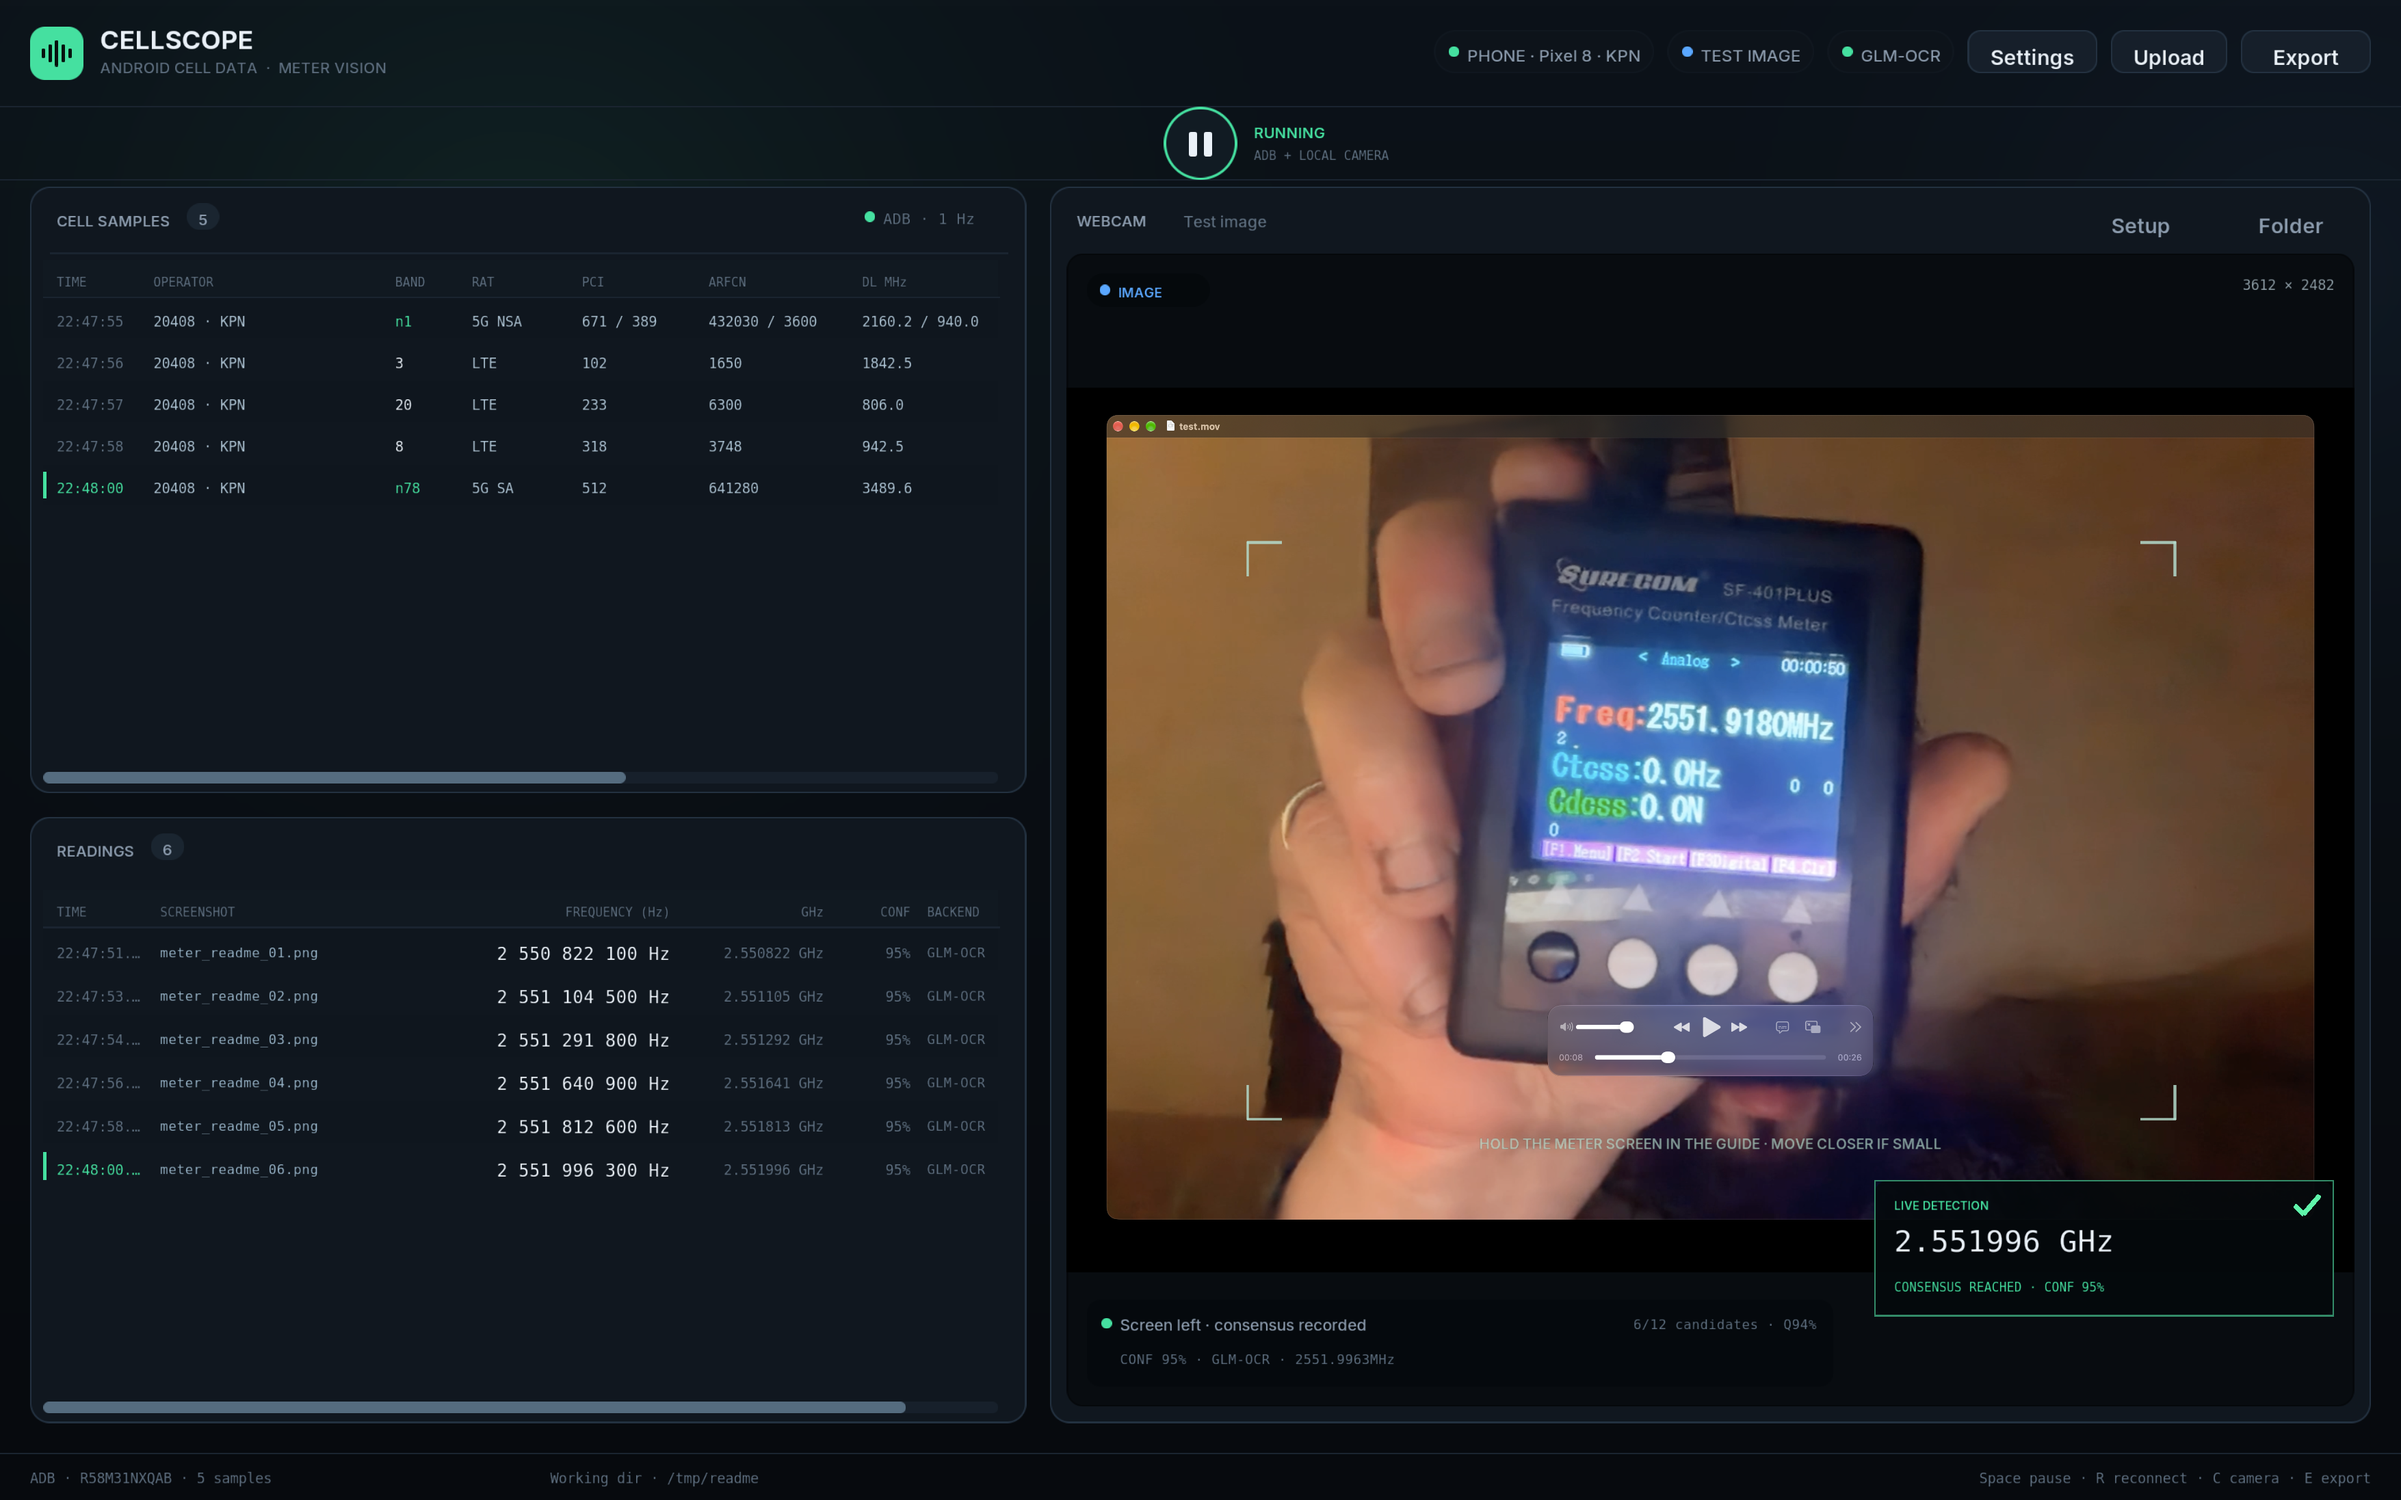
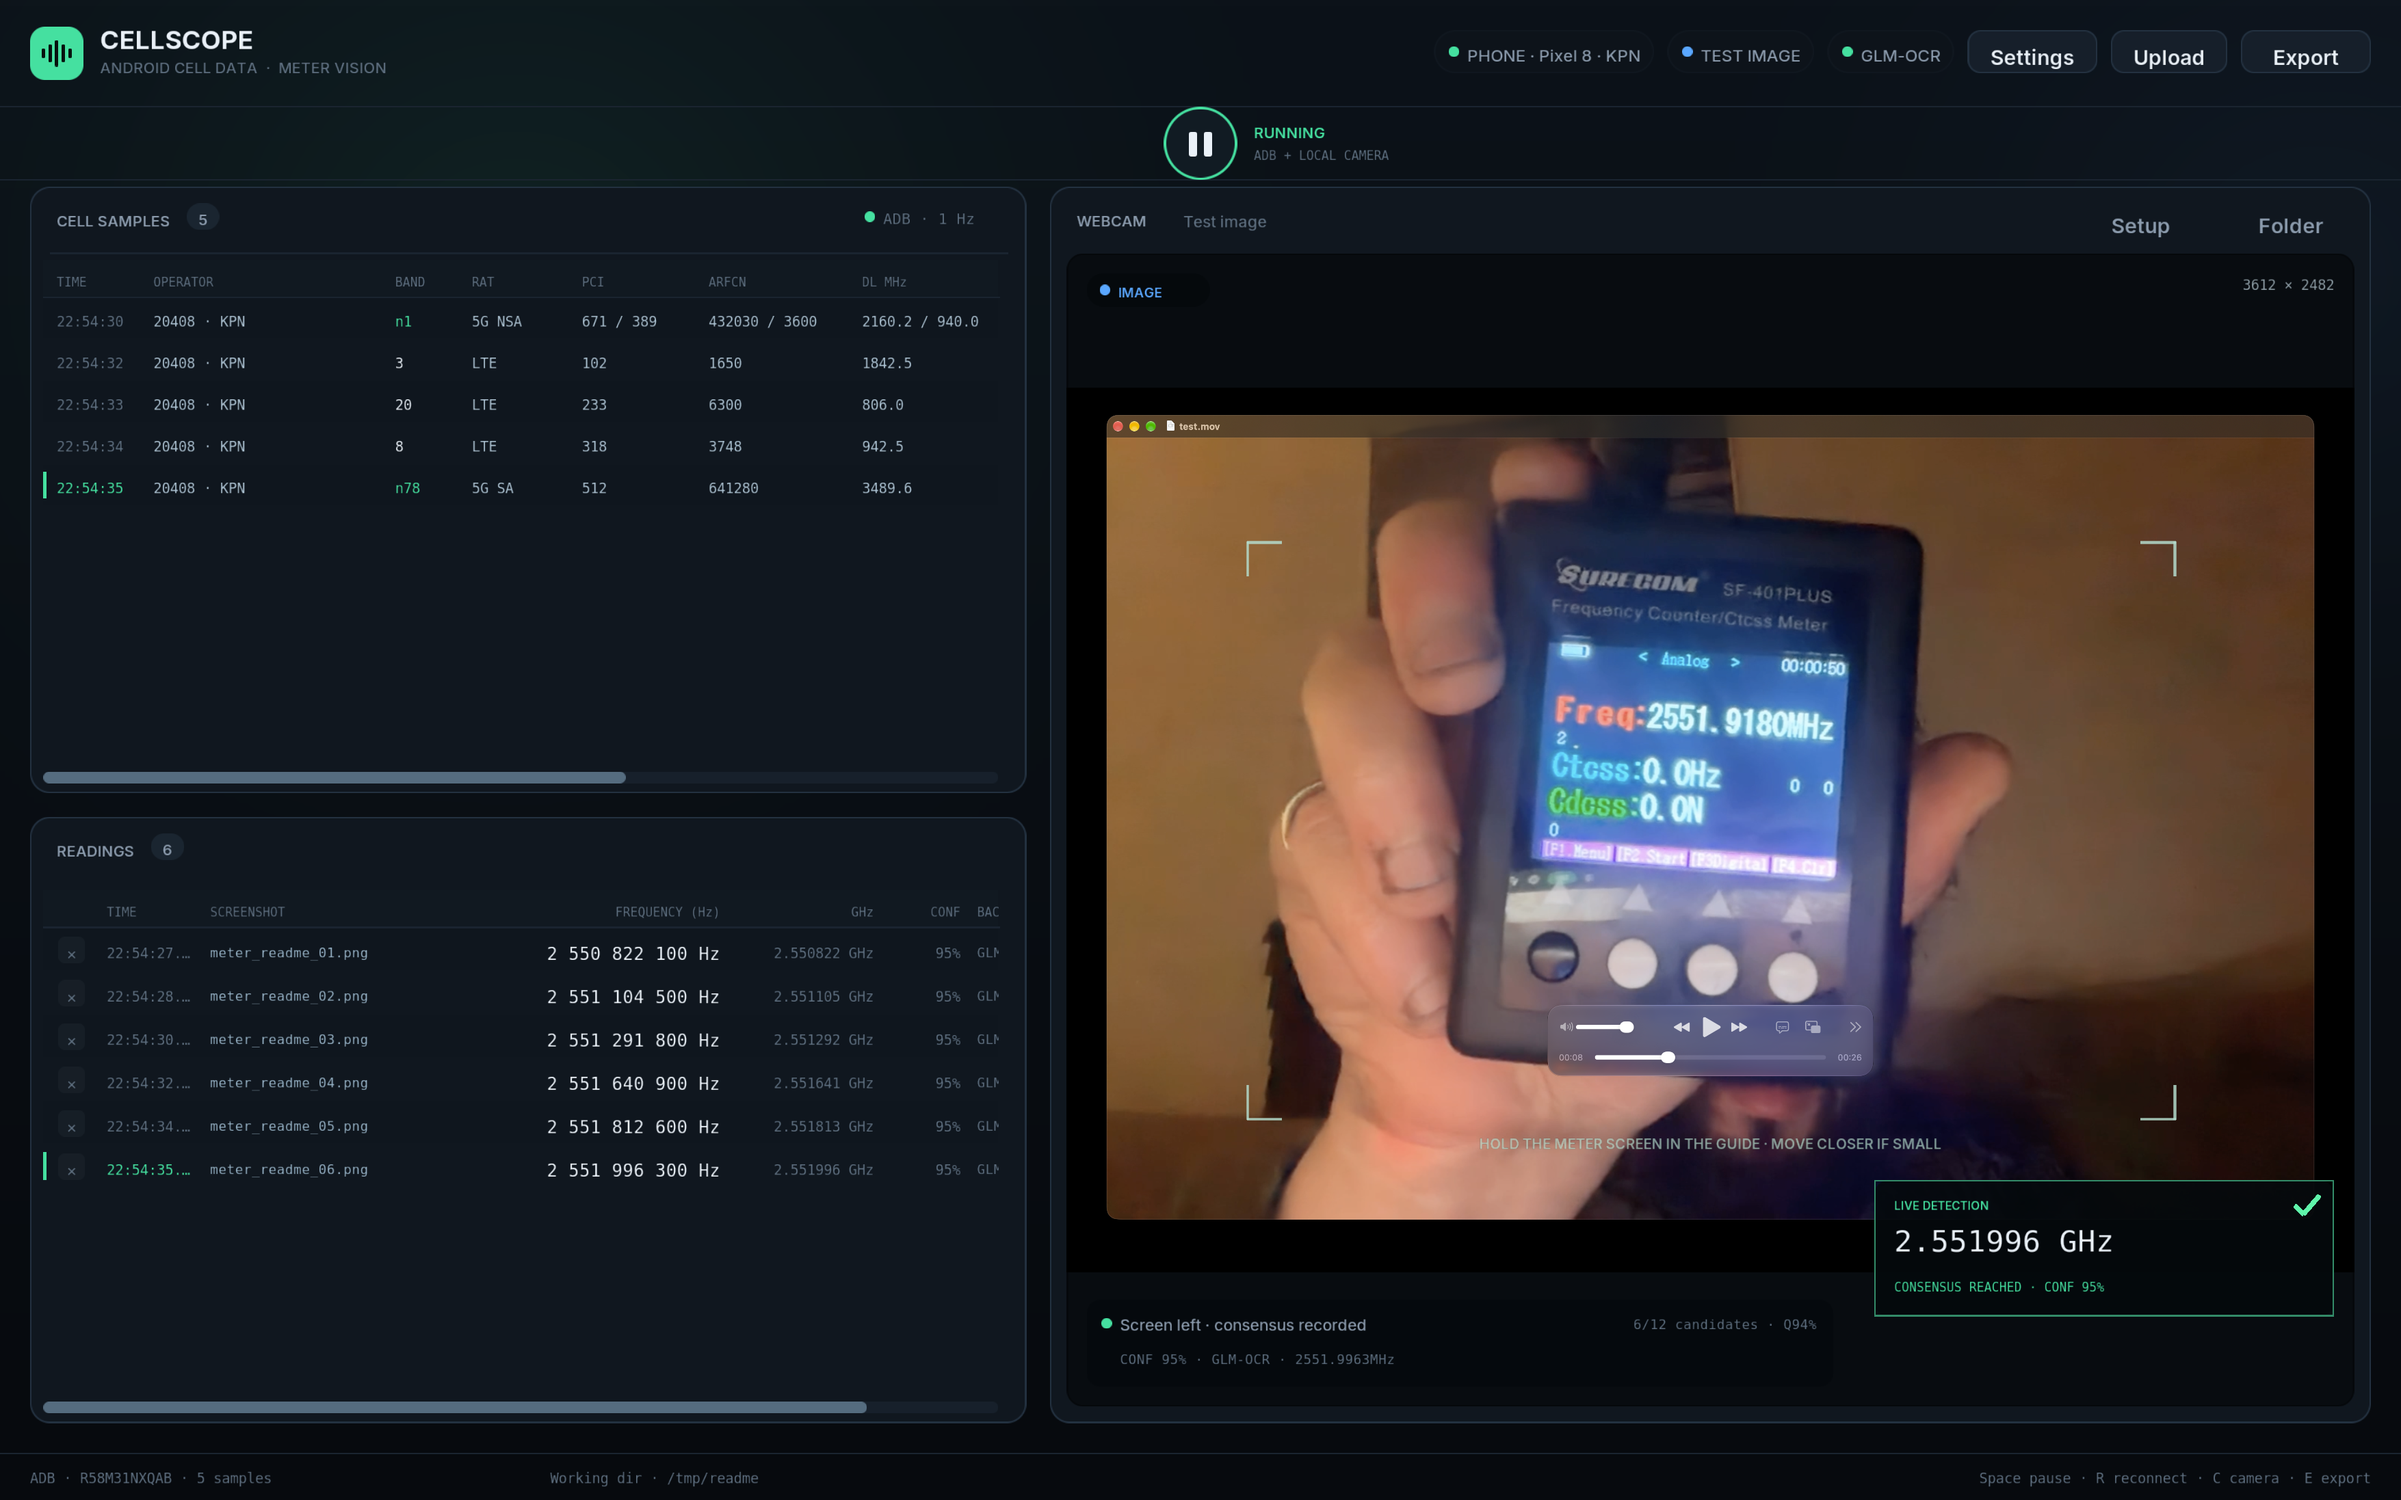
Add confirmed removal of incorrect readings
- add a compact remove action as the first READINGS column
- open a modal with the reading value, time, confidence and a warning
- cancel with the button or Escape; confirm with the danger Remove button
- remove the logical row from the circular meter buffer and update the session
  JSON; leave the screenshot file on disk
- close the modal and adjust selection/scroll state after removal
- rerender README screenshots with the remove column

Changed region(s): [[0.2174, 0.5889, 0.2795, 0.8058]]

diff --git a/src/app_ui.c b/src/app_ui.c
@@ -16,6 +16,8 @@ typedef struct {
     int meter_count;
     bool modal_open;
     bool modal_checking;
+    bool remove_meter_open;
+    int remove_meter_index;
     bool paused;
     bool ever_connected;
     char device_label[128];
@@ -53,6 +55,8 @@ static void snapshot(App *app, UiState *s)
     s->meter_count = app->meter_count;
     s->modal_open = app->modal_open;
     s->modal_checking = app->modal_checking;
+    s->remove_meter_open = app->remove_meter_open;
+    s->remove_meter_index = app->remove_meter_index;
     s->paused = app->paused;
     s->ever_connected = app->ever_connected;
     cs_strlcpy(s->device_label, app->device_label, sizeof(s->device_label));
@@ -886,7 +890,7 @@ static void draw_meter_rows(App *app, UiState *s, UiRect body)
 {
     Ui *ui = &app->ui;
     static const ListColumn cols[] = {
-        {"TIME", 62}, {"SCREENSHOT", 190}, {"FREQUENCY (Hz)", 126},
+        {"", 30}, {"TIME", 62}, {"SCREENSHOT", 190}, {"FREQUENCY (Hz)", 126},
         {"GHz", 92}, {"CONF", 52}, {"BACKEND", 112},
     };
     const int ncols = (int)CS_ARRAY_LEN(cols);
@@ -930,7 +934,7 @@ static void draw_meter_rows(App *app, UiState *s, UiRect body)
     ui_rect_fill(ui, head, UI_COLOR(17, 25, 33, 245));
     float hx = head.x + 8 - app->meter_scroll_x;
     for (int c = 0; c < ncols; c++) {
-        bool right = (c == 2 || c == 3 || c == 4);
+        bool right = (c == 3 || c == 4 || c == 5);
         if (right)
             ui_text_right(ui, FONT_MONO, hx + cols[c].width - 10, head.y + 7, 7.6f,
                           UI_FAINT, cols[c].label);
@@ -968,24 +972,37 @@ static void draw_meter_rows(App *app, UiState *s, UiRect body)
         snprintf(conf, sizeof(conf), "%d%%", (int)(m.confidence * 100.0));
         const char *shot = ui_shot_name(&m);
         float x = view.x + 8 - app->meter_scroll_x;
-        ui_text_ellipsis(ui, FONT_MONO, x, row.y + 8, 8.6f,
-                         newest ? UI_ACCENT : UI_FAINT, cols[0].width - 10, m.time_text);
+        UiRect del = ui_rect(x + 1, row.y + 5, 16, 16);
+        bool del_hover = ui_rect_contains(del, ui->mx, ui->my);
+        ui_round_rect(ui, del, 4, del_hover ? UI_COLOR(93, 40, 44, 255)
+                                            : UI_COLOR(24, 32, 40, 210));
+        ui_text_center(ui, FONT_MONO, del.x + del.w / 2, del.y + 2.5f, 10.0f,
+                       del_hover ? UI_COLOR(255, 170, 170, 255) : UI_FAINT, "×");
+        if (del_hover && ui->mouse_pressed) {
+            app_request_remove_meter(app, i);
+            ui_consume_click(ui);
+            x += cols[0].width;
+            continue;
+        }
         x += cols[0].width;
+        ui_text_ellipsis(ui, FONT_MONO, x, row.y + 8, 8.6f,
+                         newest ? UI_ACCENT : UI_FAINT, cols[1].width - 10, m.time_text);
+        x += cols[1].width;
         ui_text_ellipsis(ui, FONT_MONO, x, row.y + 8, 8.2f,
                          shot[0] ? UI_COLOR(150, 178, 198, 255) : UI_FAINT,
-                         cols[1].width - 10, shot[0] ? shot : "—");
-        x += cols[1].width;
-        ui_text_right(ui, FONT_MONO, x + cols[2].width - 10, row.y + 7, 10.4f,
-                      UI_TEXT, hz);
+                         cols[2].width - 10, shot[0] ? shot : "—");
         x += cols[2].width;
-        ui_text_right(ui, FONT_MONO, x + cols[3].width - 10, row.y + 8, 8.4f,
-                      UI_FAINT, eng);
+        ui_text_right(ui, FONT_MONO, x + cols[3].width - 10, row.y + 7, 10.4f,
+                      UI_TEXT, hz);
         x += cols[3].width;
         ui_text_right(ui, FONT_MONO, x + cols[4].width - 10, row.y + 8, 8.4f,
-                      UI_FAINT, conf);
+                      UI_FAINT, eng);
         x += cols[4].width;
+        ui_text_right(ui, FONT_MONO, x + cols[5].width - 10, row.y + 8, 8.4f,
+                      UI_FAINT, conf);
+        x += cols[5].width;
         ui_text_ellipsis(ui, FONT_MONO, x, row.y + 8, 8.2f, UI_FAINT,
-                         cols[5].width - 10, m.backend[0] ? m.backend : "reader");
+                         cols[6].width - 10, m.backend[0] ? m.backend : "reader");
 
         if (ui_rect_contains(row, ui->mx, ui->my) && ui->mouse_pressed) {
             app->selected_meter_ts = m.ts_ms;
@@ -1196,6 +1213,50 @@ static void draw_modal(App *app, UiState *s)
     }
 }
 
+static void draw_remove_modal(App *app, UiState *s)
+{
+    Ui *ui = &app->ui;
+    float W = (float)ui->win_w, H = (float)ui->win_h;
+    ui_rect_fill(ui, ui_rect(0, 0, W, H), UI_COLOR(3, 5, 8, 200));
+    float cw = CS_MIN(460.0f, W - 60);
+    float ch = 214;
+    UiRect card = ui_rect((W - cw) / 2, (H - ch) / 2, cw, ch);
+    ui_round_rect(ui, ui_rect(card.x - 2, card.y - 2, card.w + 4, card.h + 4), 14,
+                  UI_COLOR(72, 34, 38, 150));
+    ui_panel(ui, card, UI_PANEL);
+    ui_round_rect(ui, ui_rect(card.x + 1, card.y + 1, card.w - 2, 3), 2, UI_RED);
+
+    MeterSample m;
+    memset(&m, 0, sizeof(m));
+    if (s->remove_meter_index >= 0) m = app_meter_at(app, s->remove_meter_index);
+    char eng[64], hz[64];
+    cs_format_eng(m.hz, eng, sizeof(eng));
+    cs_format_hz(m.hz, hz, sizeof(hz));
+
+    ui_text_font(ui, FONT_SEMIBOLD, card.x + 24, card.y + 22, 18.0f, UI_TEXT,
+                 "Remove this reading?");
+    ui_text_font(ui, FONT_UI, card.x + 24, card.y + 52, 10.2f, UI_MUTED,
+                 "This cannot be undone. The screenshot file stays on disk.");
+    UiRect val = ui_rect(card.x + 24, card.y + 78, card.w - 48, 48);
+    ui_round_rect(ui, val, 8, UI_COLOR(11, 17, 23, 255));
+    ui_rect_outline(ui, val, UI_BORDER_SOFT, 1);
+    ui_text_ellipsis(ui, FONT_MONO, val.x + 12, val.y + 7, 17.0f, UI_TEXT, val.w - 24,
+                     eng);
+    char sub[256];
+    snprintf(sub, sizeof(sub), "%s Hz · %s · %d%%", hz,
+             m.time_text[0] ? m.time_text : "—", (int)(m.confidence * 100.0));
+    ui_text_ellipsis(ui, FONT_MONO, val.x + 12, val.y + 28, 7.8f, UI_FAINT,
+                     val.w - 24, sub);
+
+    float by = card.y + card.h - 54;
+    UiRect cancel = ui_rect(card.x + card.w - 250, by, 110, 34);
+    UiRect remove = ui_rect(card.x + card.w - 126, by, 102, 34);
+    if (ui_button(ui, cancel, "Cancel", BUTTON_SECONDARY, true))
+        app_cancel_remove_meter(app);
+    if (ui_button(ui, remove, "Remove", BUTTON_DANGER, true))
+        app_confirm_remove_meter(app);
+}
+
 void app_draw(App *app)
 {
     Ui *ui = &app->ui;
@@ -1205,7 +1266,7 @@ void app_draw(App *app)
     layout(app, &l);
 
     ui_background(ui);
-    ui->block_interactive = s.modal_open;
+    ui->block_interactive = s.modal_open || s.remove_meter_open;
     draw_header(app, &s);
     draw_transport(app, &s);
     draw_runtime_banner(app, &s);
@@ -1215,5 +1276,6 @@ void app_draw(App *app)
     draw_footer(app, &s);
     ui->block_interactive = false;
     if (s.modal_open) draw_modal(app, &s);
+    if (s.remove_meter_open) draw_remove_modal(app, &s);
     draw_toast(app);
 }

diff --git a/src/app.c b/src/app.c
@@ -313,6 +313,55 @@ void app_add_meter(App *app, const MeterSample *sample)
     SDL_UnlockMutex(app->mu);
 }
 
+void app_request_remove_meter(App *app, int index)
+{
+    SDL_LockMutex(app->mu);
+    if (index >= 0 && index < app->meter_count) {
+        app->remove_meter_open = true;
+        app->remove_meter_index = index;
+    }
+    SDL_UnlockMutex(app->mu);
+}
+
+void app_cancel_remove_meter(App *app)
+{
+    SDL_LockMutex(app->mu);
+    app->remove_meter_open = false;
+    app->remove_meter_index = -1;
+    SDL_UnlockMutex(app->mu);
+}
+
+void app_confirm_remove_meter(App *app)
+{
+    SDL_LockMutex(app->mu);
+    int index = app->remove_meter_index;
+    if (!app->remove_meter_open || index < 0 || index >= app->meter_count) {
+        app->remove_meter_open = false;
+        app->remove_meter_index = -1;
+        SDL_UnlockMutex(app->mu);
+        return;
+    }
+    int phys = (app->meter_head + index) % METER_MAX;
+    uint64_t seq = app->meters[phys].seq;
+    for (int j = index; j < app->meter_count - 1; j++) {
+        int dst = (app->meter_head + j) % METER_MAX;
+        int src = (app->meter_head + j + 1) % METER_MAX;
+        app->meters[dst] = app->meters[src];
+    }
+    app->meter_count--;
+    if (app->selected_meter == index) {
+        app->selected_meter = -1;
+        app->selected_meter_ts = 0;
+    } else if (app->selected_meter > index) {
+        app->selected_meter--;
+    }
+    app->remove_meter_open = false;
+    app->remove_meter_index = -1;
+    if (app->session_active) session_write_locked(app);
+    SDL_UnlockMutex(app->mu);
+    app_notify(app, false, "Removed reading %llu Hz", (unsigned long long)seq);
+}
+
 int app_cell_count(App *app)
 {
     SDL_LockMutex(app->mu);
@@ -605,6 +654,7 @@ AppArgsResult app_parse_args(App *app, int argc, char **argv, char *err, size_t 
             app->readme_fixture = true;
             app->readme_fixture_mode = strcmp(mode, "live") == 0 ? 2
                                      : strcmp(mode, "best") == 0 ? 3
+                                     : strcmp(mode, "remove") == 0 ? 5
                                                                  : 1;
         } else if (strcmp(a, "--autoplay") == 0) {
             app->autoplay = true;
@@ -945,6 +995,10 @@ static void readme_fixture_seed(App *app)
                    sizeof(app->reader.status));
     app->cell_follow = true;
     app->meter_follow = true;
+    if (app->readme_fixture_mode == 5) {
+        app->remove_meter_open = true;
+        app->remove_meter_index = app->meter_count - 1;
+    }
     SDL_UnlockMutex(app->mu);
 }
 
@@ -2531,7 +2585,9 @@ void app_handle_event(App *app, const SDL_Event *e)
     if (e->type == SDL_EVENT_KEY_DOWN && !e->key.repeat) {
         switch (e->key.key) {
             case SDLK_ESCAPE:
-                if (app->modal_open) {
+                if (app->remove_meter_open) {
+                    app_cancel_remove_meter(app);
+                } else if (app->modal_open) {
                     SDL_LockMutex(app->mu);
                     app->modal_open = false;
                     SDL_UnlockMutex(app->mu);
@@ -2558,7 +2614,7 @@ void app_handle_event(App *app, const SDL_Event *e)
                 app_export_json(app);
                 break;
             case SDLK_SPACE:
-                if (!app->modal_open) app_toggle_pause(app);
+                if (!app->modal_open && !app->remove_meter_open) app_toggle_pause(app);
                 break;
             default:
                 break;

diff --git a/src/app.h b/src/app.h
@@ -202,6 +202,8 @@ typedef struct App {
     bool ever_connected;
     bool modal_open;
     bool modal_checking;
+    bool remove_meter_open;
+    int remove_meter_index;
     bool want_check;
     bool background_retry;
     int64_t last_check_ms;
@@ -292,5 +294,8 @@ int app_meter_count(App *app);
 MeterSample app_meter_at(App *app, int index);
 void app_add_cell(App *app, const CellSample *sample);
 void app_add_meter(App *app, const MeterSample *sample);
+void app_request_remove_meter(App *app, int index);
+void app_confirm_remove_meter(App *app);
+void app_cancel_remove_meter(App *app);
 
 #endif

diff --git a/README.md b/README.md
@@ -18,6 +18,8 @@ state and a webcam at the same time.
   needed. **CELL SAMPLES** exposes time, operator, band, RAT, PCI, ARFCN,
   downlink/uplink frequencies, TAC, eNB/CID, bandwidth and CA; **READINGS**
   exposes timestamp, screenshot filename, Hz, GHz, confidence and backend.
+  Each reading row starts with a small **×** action; it asks for confirmation in
+  a modal before removing that entry from the current session.
 - **Top centre:** a large play/pause control. CellScope starts paused: the
   webcam, ADB polling, VLM extraction, dataset session and table stay idle until
   you press play. The window opens maximized with its normal title bar visible;
